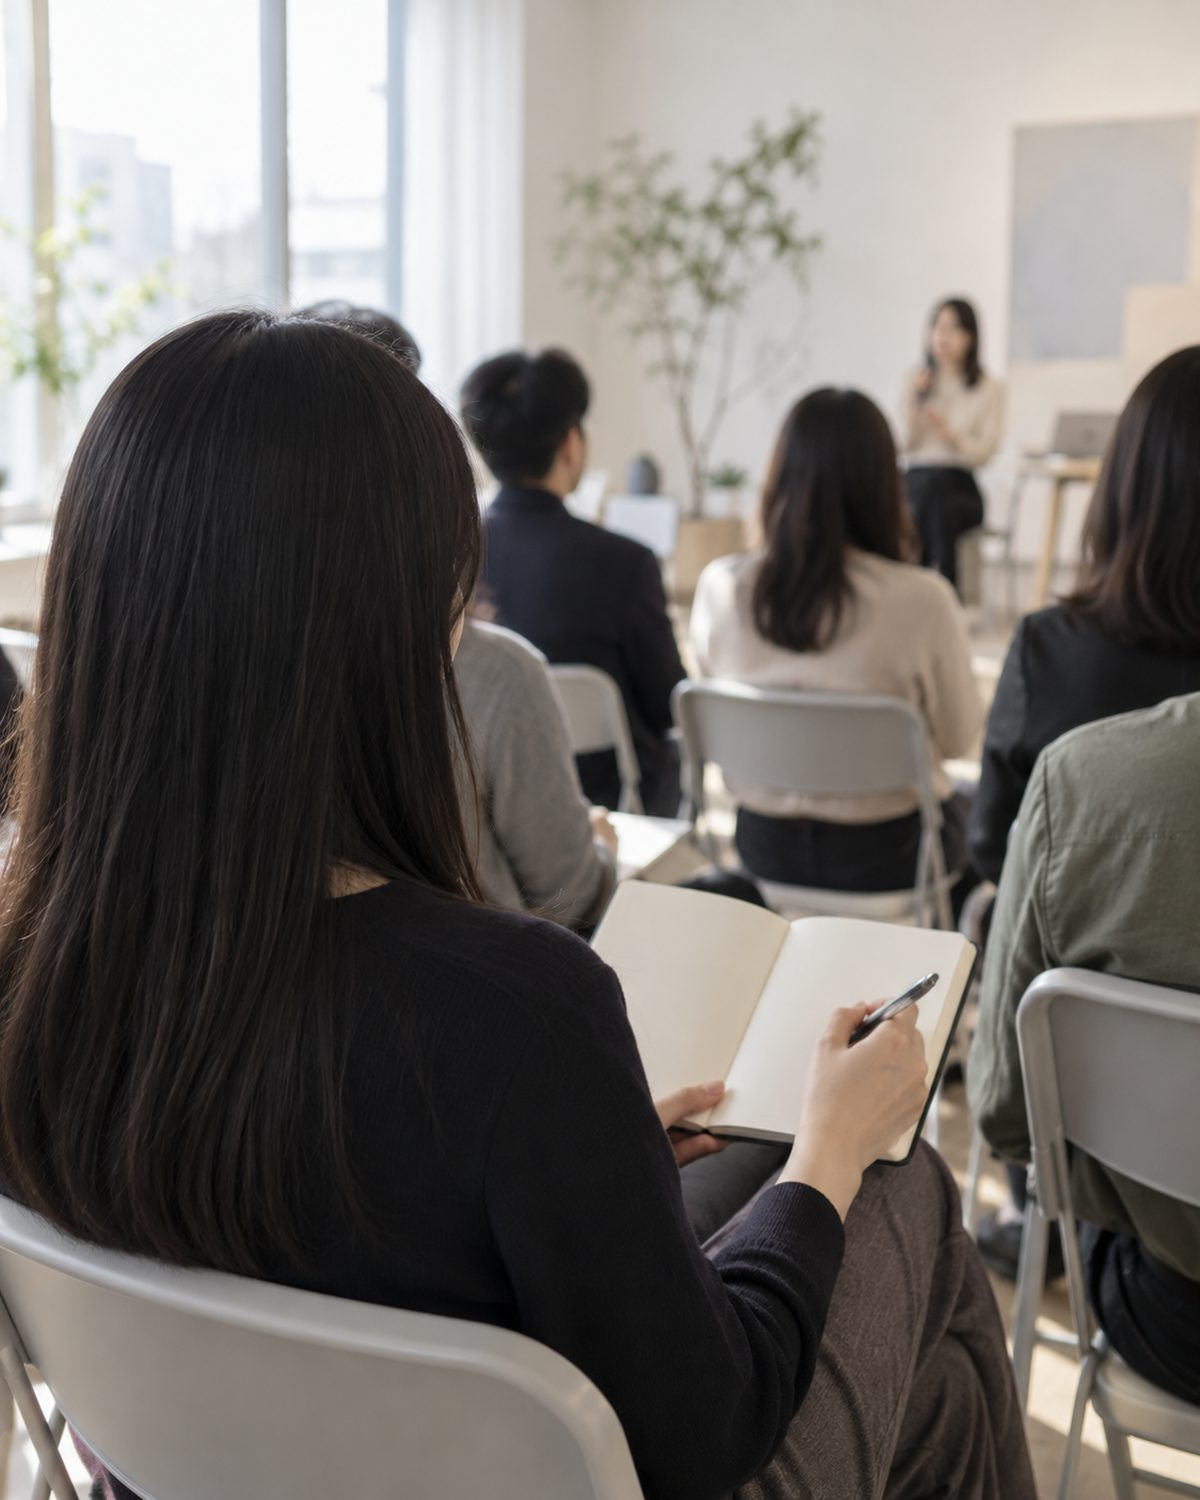
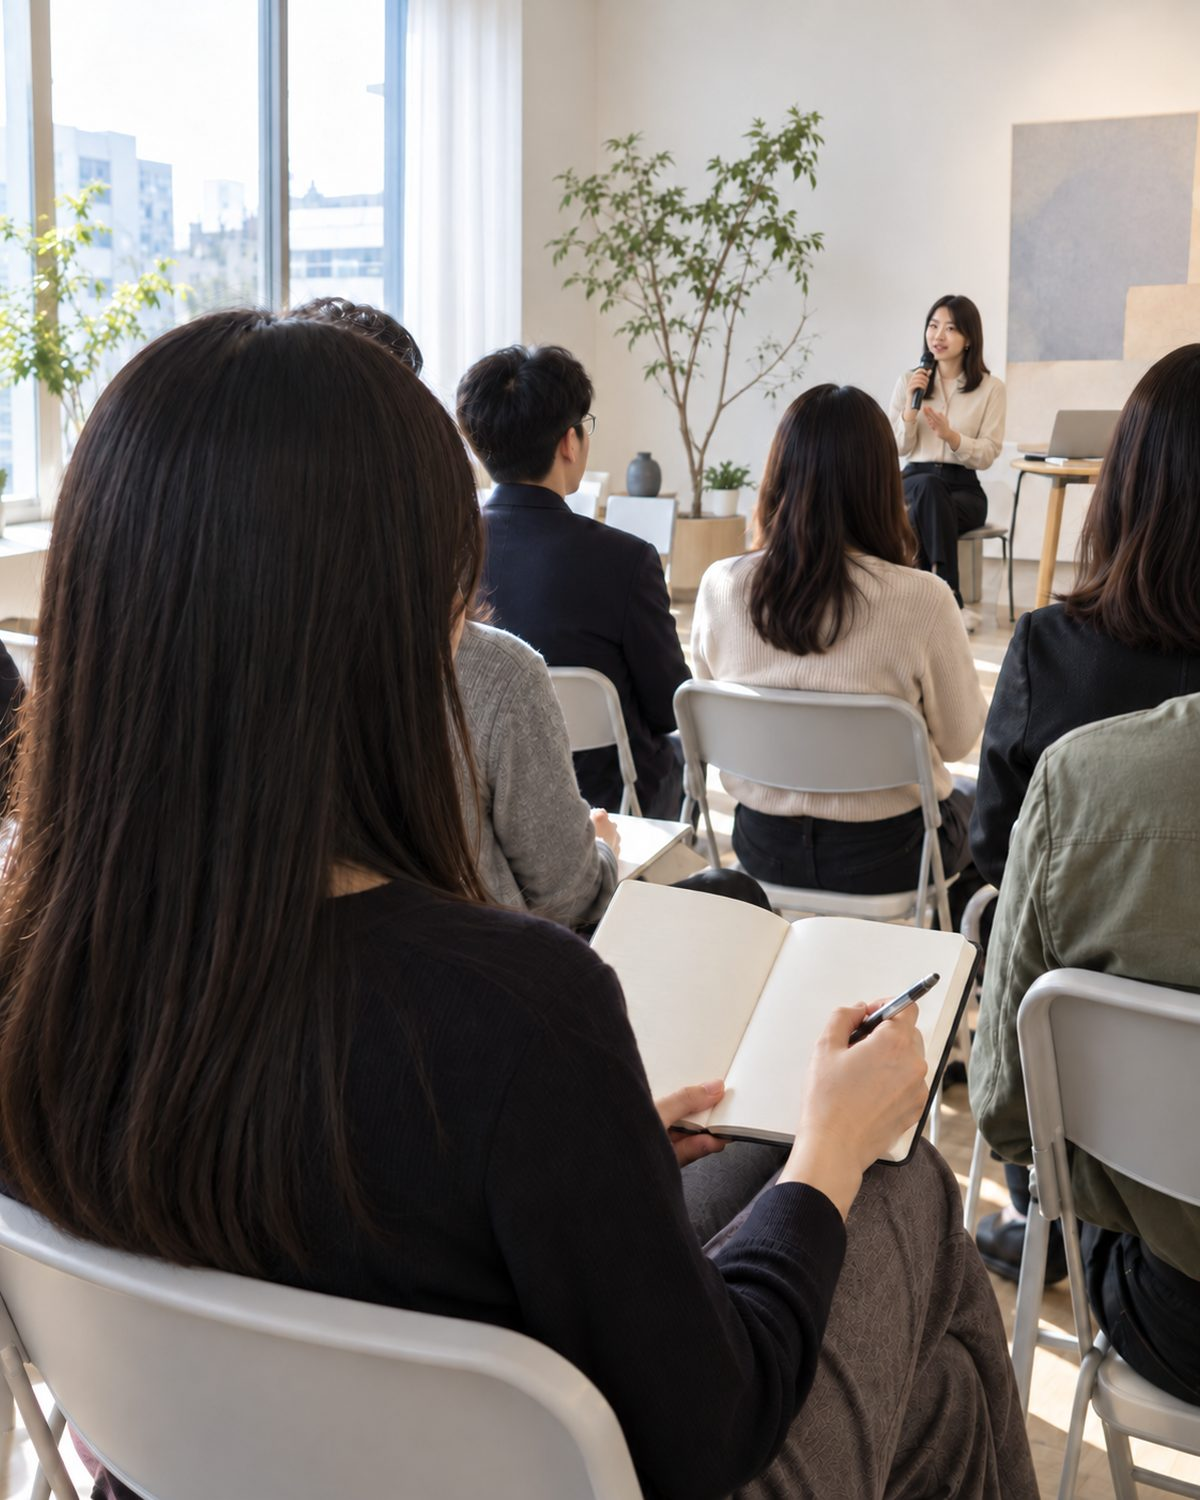
문화정거장: 얼굴 선명한 이미지 교체 및 캐시 갱신

diff --git a/munhwa-station/index.html b/munhwa-station/index.html
@@ -372,7 +372,7 @@ footer a{text-decoration:underline; text-underline-offset:3px}
         </p>
       </div>
       <aside class="about-side">
-        <div class="sp r45" style="margin-bottom:28px"><img src="images/a-about.jpg" alt=""
+        <div class="sp r45" style="margin-bottom:28px"><img src="images/a-about.jpg?v=89e7a9d1b352" alt=""
           onerror="this.onerror=function(){this.remove()};this.src='https://images.unsplash.com/photo-1529070538774-1843cb3265df?w=1200&q=75'"><b>A-ABOUT · 4:5</b></div>
         <h3>이끄는 사람</h3>
         <div class="ceo">
@@ -449,7 +449,7 @@ footer a{text-decoration:underline; text-underline-offset:3px}
         <p>전시가 끝나도 사라지지 않도록, 인쇄물과 기획안을 주제별로 분류해 남깁니다.</p>
       </article>
       <article class="card">
-        <div class="ph"><img src="images/a-ar-02.jpg" alt="" onerror="this.onerror=function(){this.remove()};this.src='https://images.unsplash.com/photo-1522202176988-66273c2fd55f?w=1200&q=75'"><b>A-AR-02 · 4:5</b>인터뷰·대화 현장</div>
+        <div class="ph"><img src="images/a-ar-02.jpg?v=0253859c4b6e" alt="" onerror="this.onerror=function(){this.remove()};this.src='https://images.unsplash.com/photo-1522202176988-66273c2fd55f?w=1200&q=75'"><b>A-AR-02 · 4:5</b>인터뷰·대화 현장</div>
         <p class="cat">사람의 이야기</p>
         <h3>현장 인터뷰 기록</h3>
         <p>창작자·관계자·지역 주민의 목소리를 텍스트로 수집하고 에디토리얼 해설을 붙입니다.</p>
@@ -497,7 +497,7 @@ footer a{text-decoration:underline; text-underline-offset:3px}
         <p class="tag">기획 · 리서치</p>
       </div>
     </div>
-    <div class="sp wide"><img src="images/a-pj.jpg" alt=""
+    <div class="sp wide"><img src="images/a-pj.jpg?v=06a06828f9f6" alt=""
       onerror="this.onerror=function(){this.remove()};this.src='https://images.unsplash.com/photo-1492684223066-81342ee5ff30?w=2000&q=75'"><b>A-PJ · 21:9</b></div>
   </div>
 </section>
